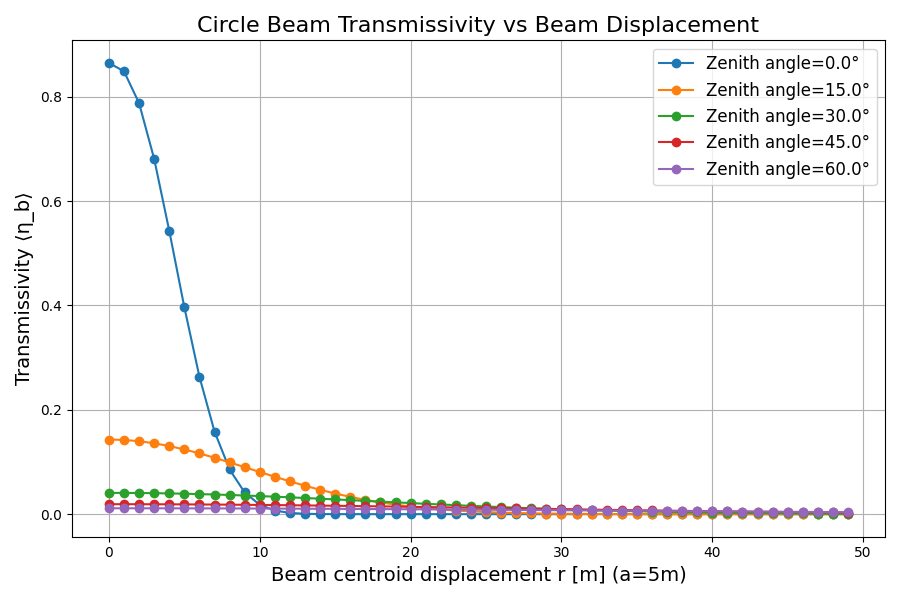
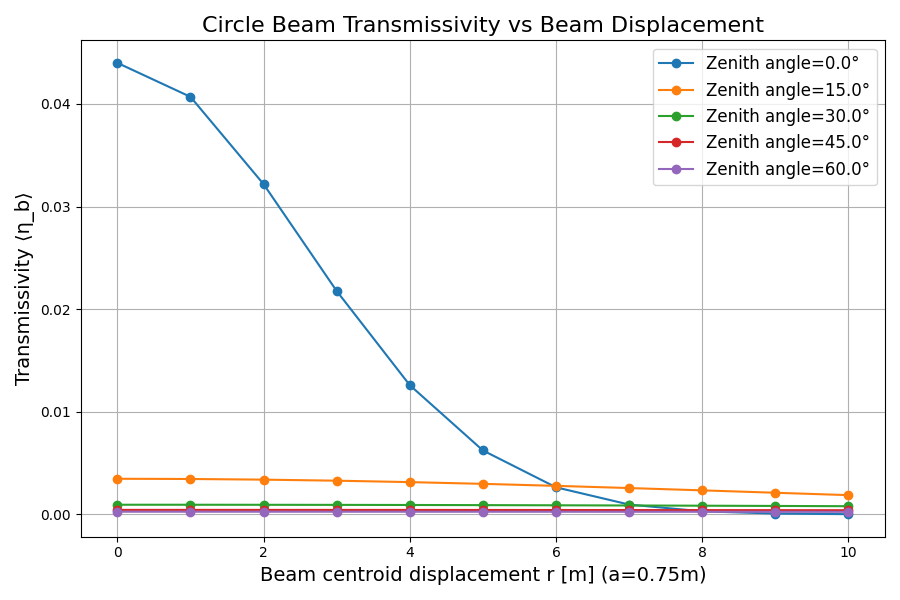
change the rage of beam displacement

diff --git a/BB84/SimulationResult/Circle_beam/Pointing/transmissivity_b_displacement.py b/BB84/SimulationResult/Circle_beam/Pointing/transmissivity_b_displacement.py
@@ -7,7 +7,7 @@ sys.path.append(simulation_path)
 from circle_beam_transmissivity import transmissivity_etab, beam_waist, to_decimal_string
 
 
-a = 5              # Aparture radius
+a = 0.75              # Aparture radius
 G = 6.67430e-11         # Gravitational constant
 M_T = 5.972e24          # Earth's mass
 D_E = 6378e3            # Earth's radius (km)
@@ -19,7 +19,7 @@ t = T * 0.0           # 周回時間
 
 def main():
     # ======= 定義 =========== #
-    r = np.arange(0, 50, 1)  # ビームのずれ範囲 [m]
+    r = np.arange(0, 11, 1)  # ビームのずれ範囲 [m]
     print("===============================")
     print(f'Aperture radius (Receiver): {a} m')
 
